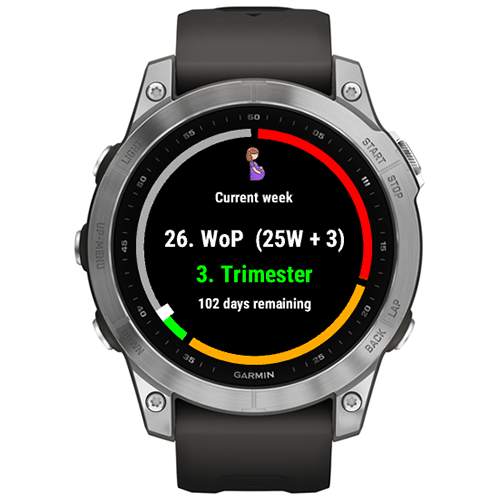
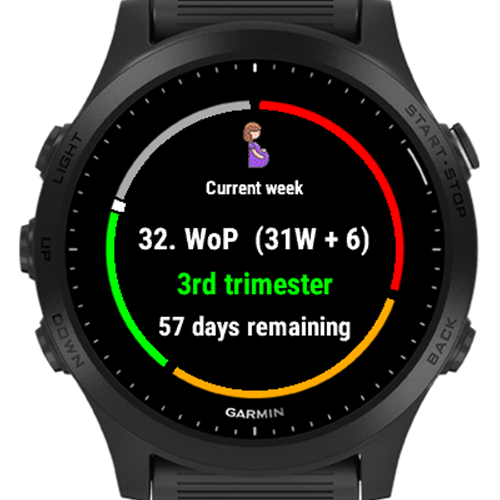
update screens

diff --git a/README.md b/README.md
@@ -2,7 +2,7 @@
 
 Shows the current week of pregnancy and trimester.
 
-![MainView](screenshots/connectIQ/MainViewENG2.png) 
+![MainView](screenshots/connectIQ/MainViewENG.jpeg) 
 
 ![MainView](screenshots/ConnectIQ/GlanceViewENG.png)
 
